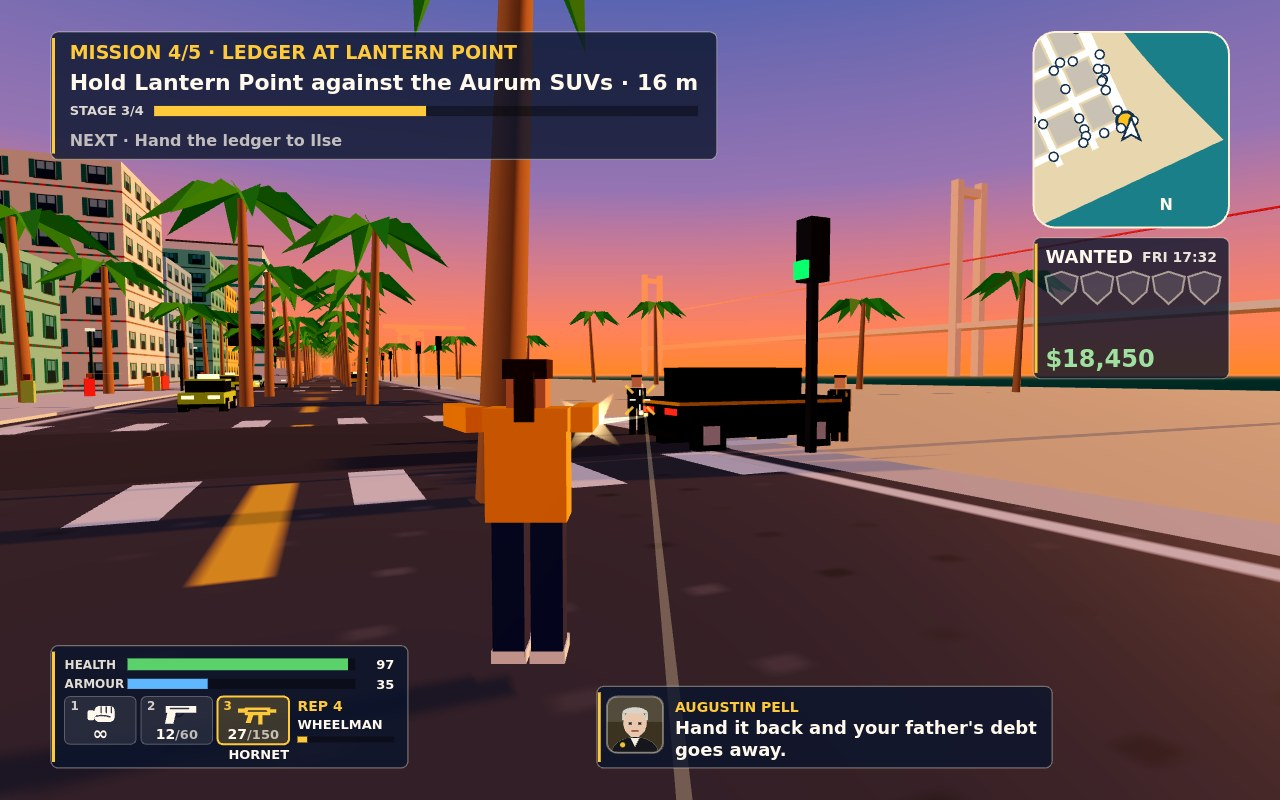
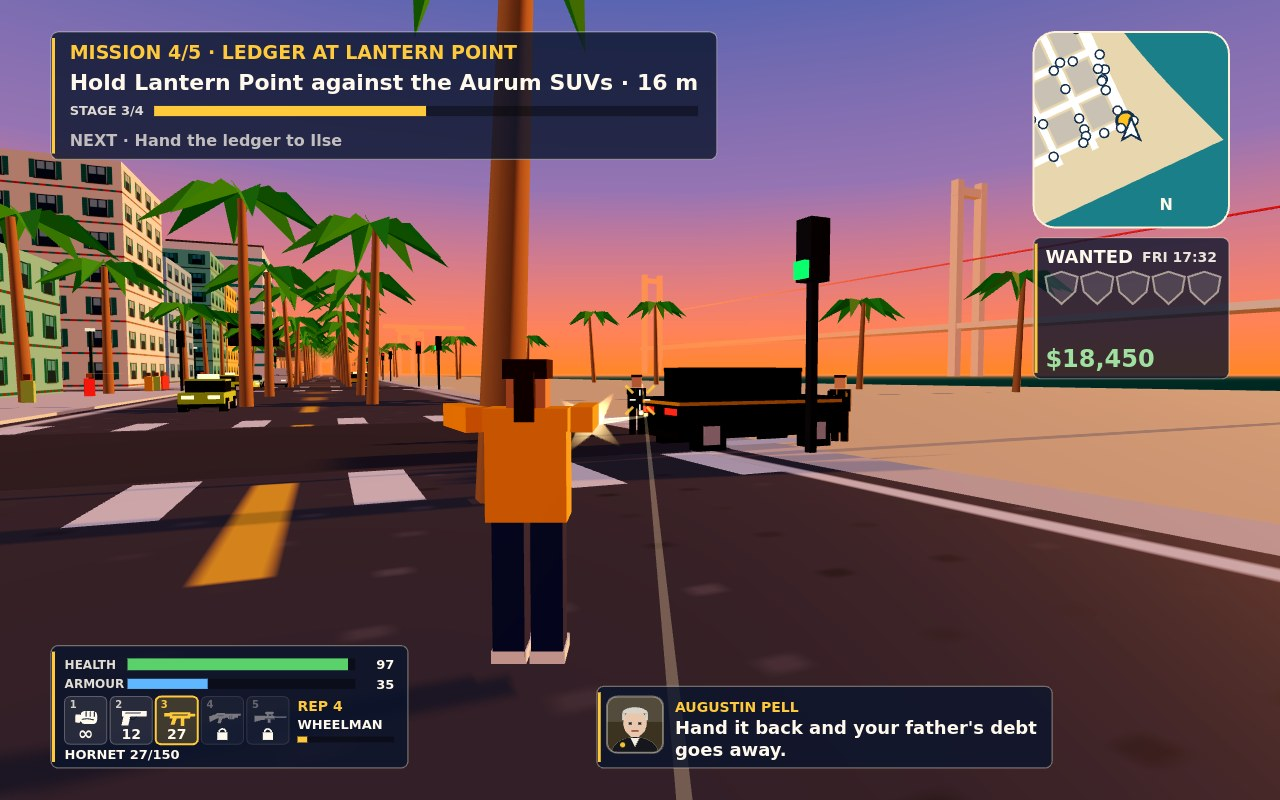
M10 steps 4-5: shots 1-chase (176.6 KiB) and 2-seafront (162.5 KiB) re-shot for the five-slot weapon strip (staging and shot save untouched; Breaker and Gannet show locked), 3-map and 4-title byte-identical; A/B (out/ab/m10-chase-*, m10-seafront-*, m10-sheet-*): kept, only the bottom-left panel chan

Changed region(s): [[0.0312, 0.8438, 0.25, 0.9688]]

diff --git a/NOTES.md b/NOTES.md
@@ -1,5 +1,51 @@
 # PORT SOLARA build notes
 
+## M10 arsenal: BREAKER shotgun + GANNET rifle done, explosive dropped (run of 2026-11-20 06:59-07:38 EET)
+- (1) Two guns at the END of WEAPONS (saves store ammo by index): BREAKER SHOTGUN (slot 4: 6
+  pellets per pull, spread 0.065, 16 per pellet, reach 15 m counted from Wren rather than the
+  camera, 0.95 s pump, clip 6 + 30, reload 2.4 s) and GANNET RIFLE (slot 5: 75 damage, 130 m,
+  spread 0.0008, 1.15 s bolt, clip 5 + 25, reload 2.8 s). Pellet spread comes from the weapon
+  module's own seed, never the world stream; the Wasp and Hornet keep their three rand() calls
+  per pull in the same order. One round, one `shots++` and at most one hit counted per pull
+  (accuracy can't pass 100%). Every row has a `flash` size (Wasp 0.8, Hornet 0.62, Breaker
+  1.08, Gannet 1.0); enemy shots map their flag to 0.62 / 0.8, as before. Gunfire still panics
+  walkers and raises WANTED when seen (same path). `cycle(dir)` steps over locked slots and
+  wraps, so Q / wheel no longer stall on a locked slot (the old Wasp -> locked Hornet stall is
+  fixed too); Digit1-9 select. Two-handed pose and a longer gun for both; Wasp and Hornet poses
+  unchanged. CONTROLS: the MOUSE row lists LMB fire, RMB aim and 1-5 / Q / wheel (no new row).
+- (2) Brass & Barrel offers the first locked gun in WEAPONS order: Hornet $2,500 at REP 3,
+  Breaker $3,800 at REP 4, Gannet $6,500 at REP 5 (`weaponUnlocked(id)`, ranks never go down
+  in that order; the prompt reads its rank from the unlocks table). The Hornet career count runs
+  only for the Hornet; no count or STATS row for the new guns. Saves carry `weapons.ids`;
+  applyState locks any gun the save never knew (old saves: Breaker and Gannet stay locked).
+  VERSION stays 1. `DEFAULT_LOCKED` exported and used by PlayerWeapons. The guns are not in
+  COMPLETION_WEIGHTS and have no MAP-column row (weights must sum to 100, the column has no
+  room, shot 3 shows it), so 3-map.jpg and 4-title.jpg stay byte-identical.
+- (3) HUD strip: tile width from the slot count (264 units, 4 apart: 49.6 at five), pictogram
+  scale min(1, (w - 14) / 44) = 0.81, slot number 12 units at y+13 so it never touches the
+  pictogram, clip only in the tile (17 units, red when low), padlock where the ammo would be,
+  the reserve in the held line under the strip, always left-aligned ("HORNET 27/150",
+  "BREAKER · RELOADING", 15 units, shrunk if it would pass 248 units, never reaching the REP
+  column). New pictograms: pump gun with grooved pump, scoped rifle. Checked at 768x480 (probe
+  frames, kept in out/: hud-768-*.png).
+- (4) Shots: only 1-chase and 2-seafront re-shot (staging and shot save untouched; the new guns
+  show locked there, as the shot save owns neither). A/B in out/ab/before_m10/, pairs
+  out/ab/m10-chase-*, m10-seafront-*, m10-sheet-*: kept. Only the bottom-left panel changes; the
+  sheet's cover now shows five slots with two padlocks. Judge sheet rebuilt.
+- Self-test (SwiftShader, 1280x800): SELFTEST PASS 27/27 (new: arsenal, right after enemy: Q from
+  the Hornet with both new guns locked lands on FISTS; one Breaker pull at a gunman 7 m ahead
+  does damage, spends one shell and counts one hit; one Gannet round at a gunman 40 m ahead at
+  camera pitch 0 does damage and spends one round). The save check now compares the locked
+  set before and after. Perf: HIGH 172 draw calls / median 3.0 ms; LOW 112 / 1.6 ms.
+- Originality PASS (34 files). main.ts run twice without ulimit: 42 files byte-identical (sha256
+  lists compared), dossier 1,117,630 bytes; the text cut still falls inside enemies.js, after
+  weapons-and-damage.js (shown whole, 268 lines).
+- Shots: 1-chase.jpg 176.6 KiB, 2-seafront.jpg 162.5 KiB, 3-map.jpg 177.4 KiB, 4-title.jpg
+  179.1 KiB.
+- Dropped: the thrown explosive (it needs a `blastAt(x, z)` split out of explode(car) that keeps
+  blown++ / countCarBlownUp in explode only, and a sixth slot would shrink the pictograms to
+  0.61 at 768x480). Next: that split, then the explosive on its own slot (never on C).
+
 ## M9 on-foot WIDE view: done; seafront reframe tried and not kept (run of 2026-11-20 06:12-06:35 EET)
 - (1) C on foot toggles SHOULDER / WIDE (`ChaseCamera.footView`, default 'shoulder', never in
   `view`, not saved in settings); `cycleView` branches on mode, and C in a car still cycles NEAR /
